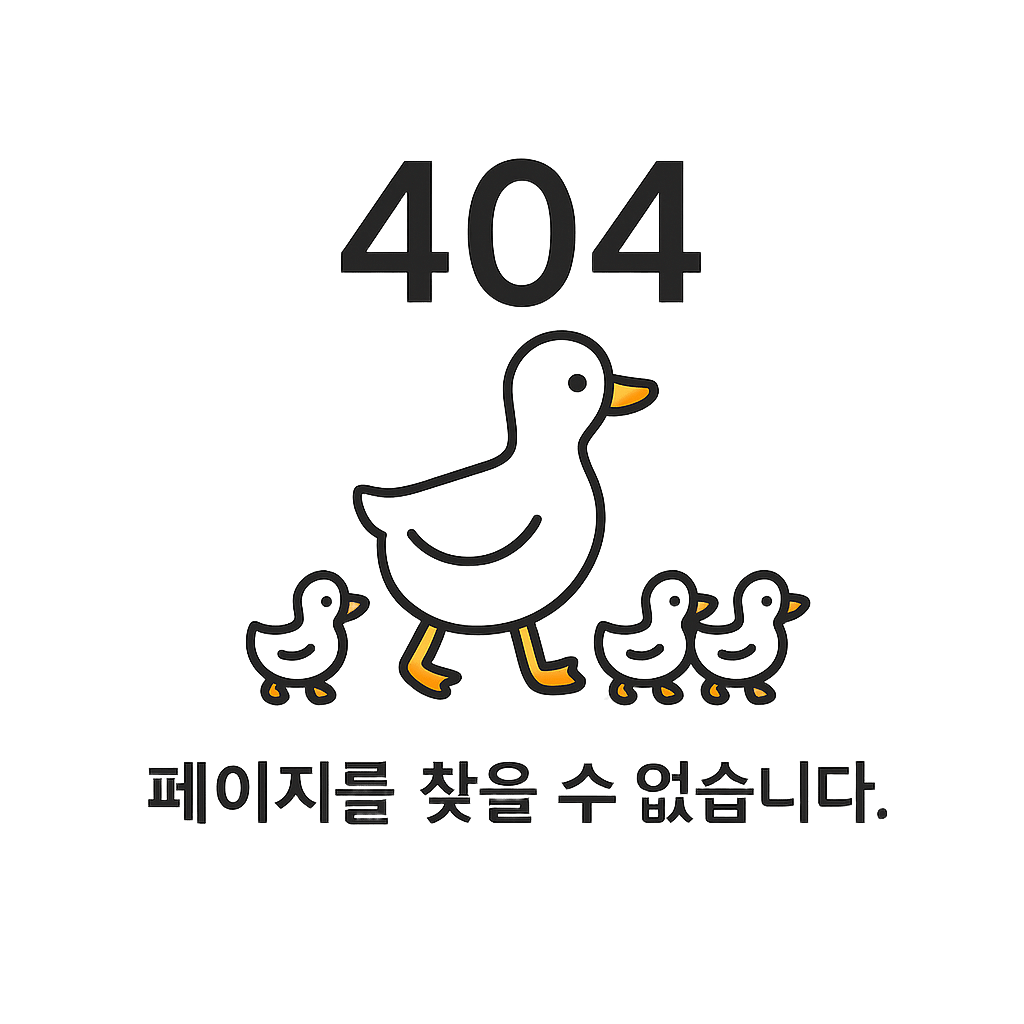
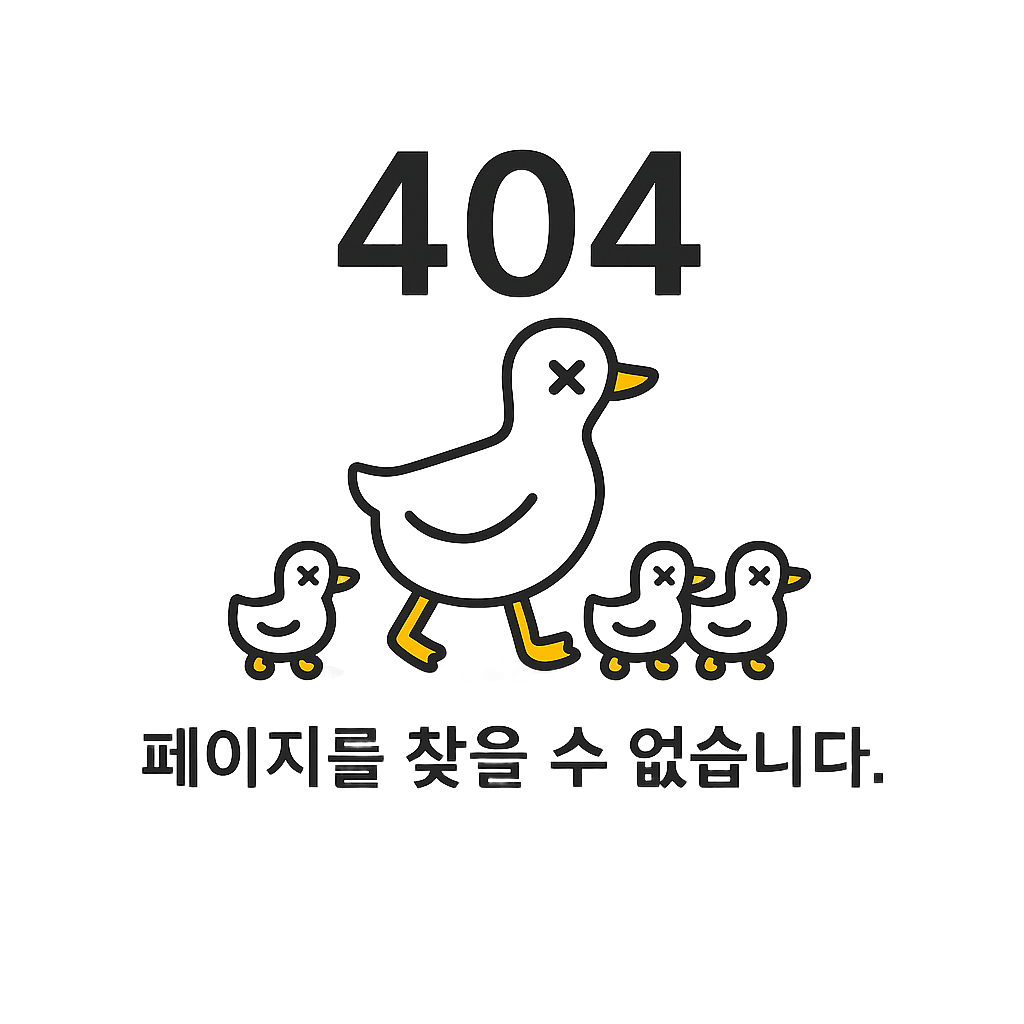
fix: 404 페이지 이미지 변경

Changed region(s): [[0.125, 0.125, 0.875, 0.8125]]

diff --git a/src/app/not-found.jsx b/src/app/not-found.jsx
@@ -6,7 +6,7 @@ import Image from "next/image";
 export default function NotFound() {
   return (
     <div className="flex flex-col justify-center items-center h-full gap-2 pt-[50px]">
-      <Image src={"/images/404-page.png"} width={440} height={440} alt="404-not-found" />
+      <Image src={"/images/404-page.png"} width={350} height={350} alt="404-not-found" />
       <Button className="h-[50px]">
         <span className="text-lg">Momnect 홈으로 돌아가기</span>
       </Button>
